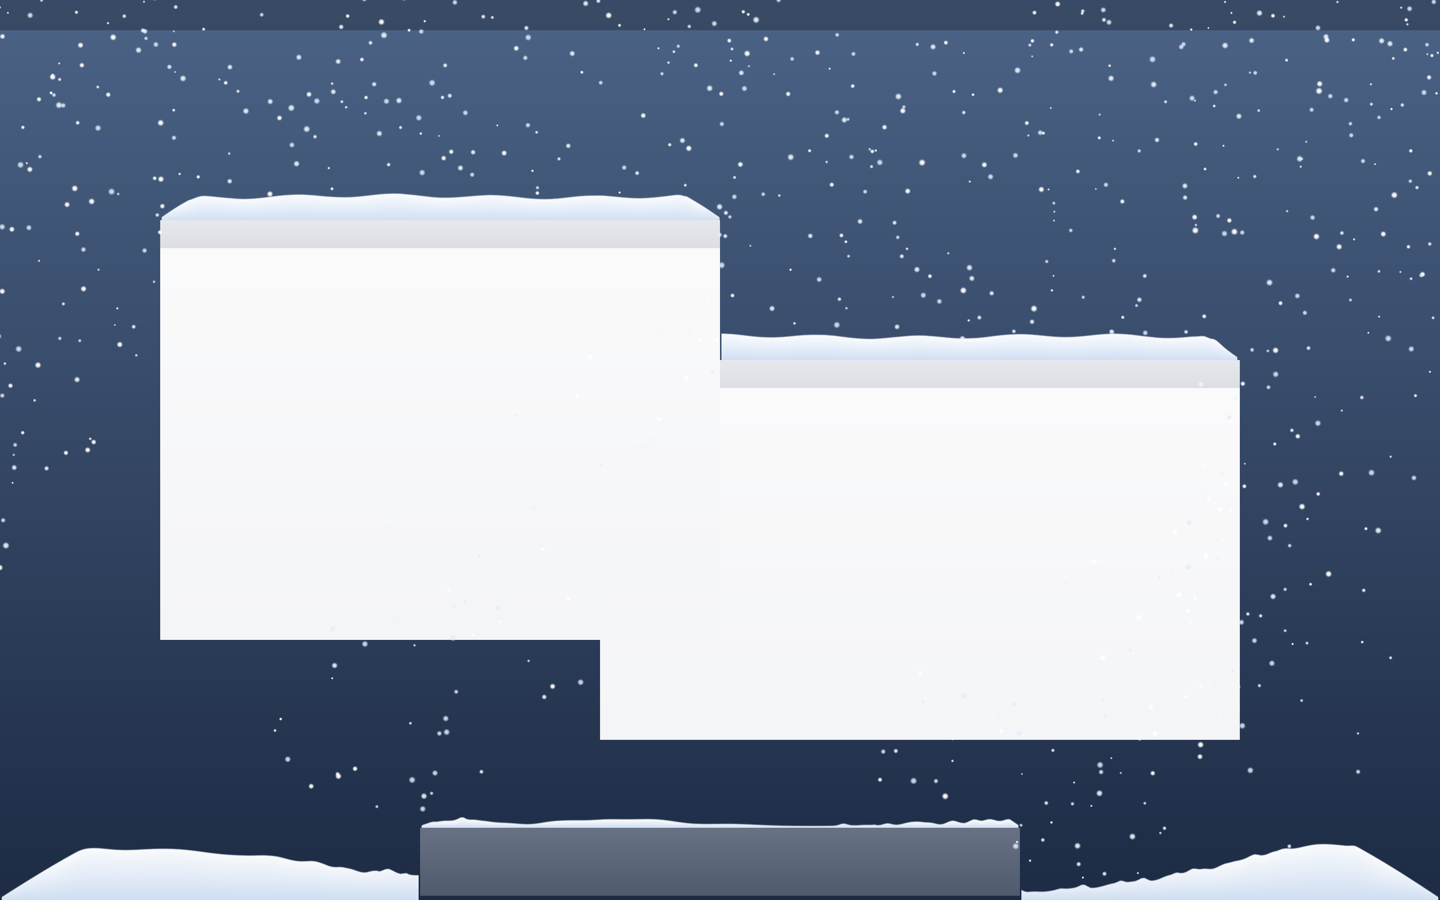
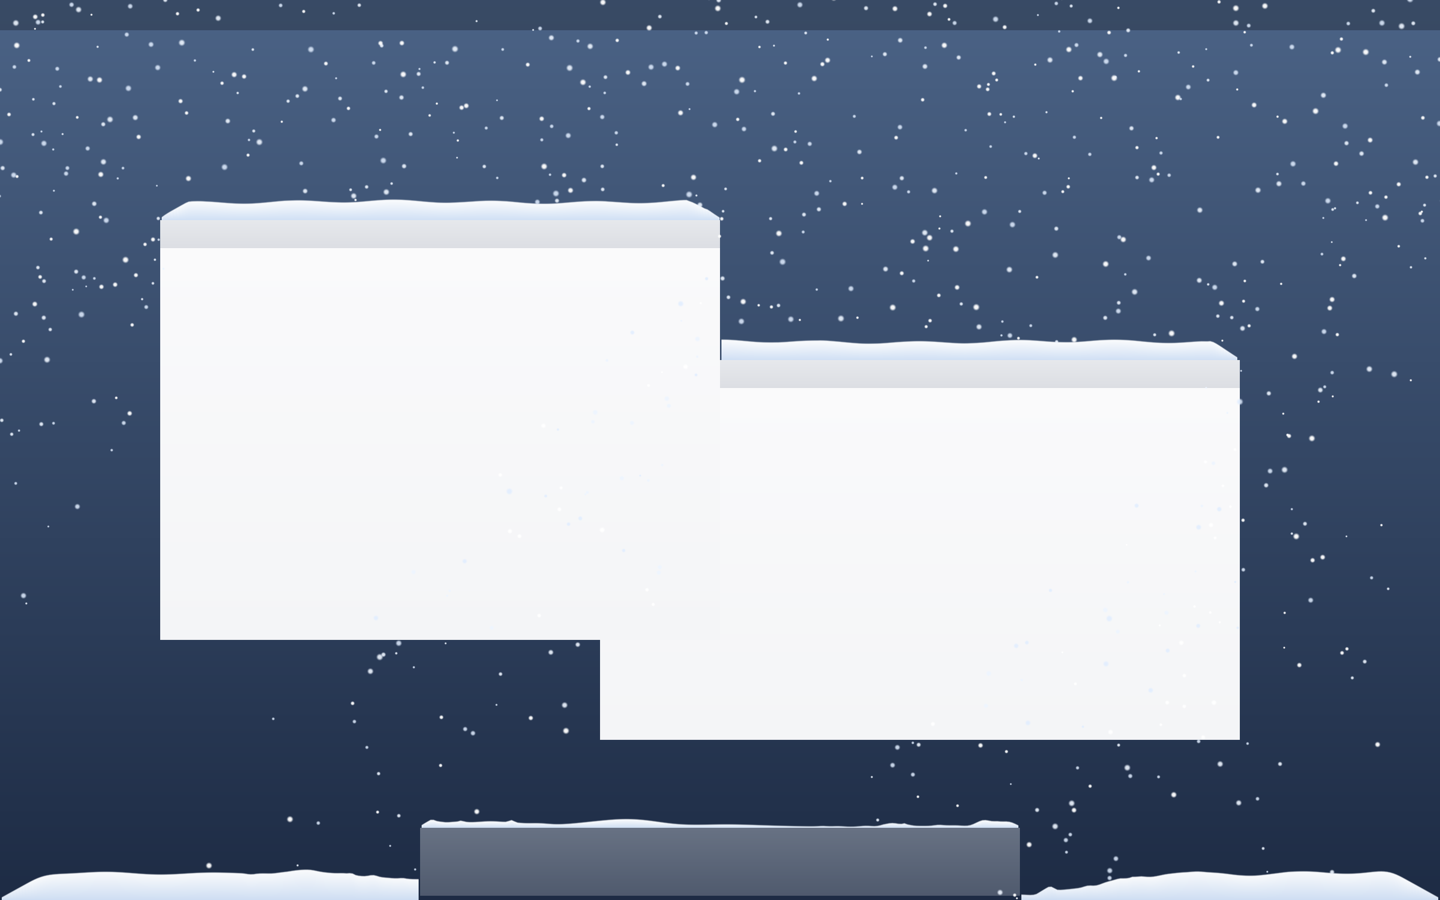
fix: enforce a hard pile height limit and make Melt Away a switch
Pushing snow sideways with the cursor or shifting it with a moving window
could stack material above the maximum height. A hard cap now runs every
frame, and the floor limits are lower (snow 30 pt instead of 64 pt).

Melt Away used to run until all piles were empty, which never happened
while it kept snowing, and it could not be turned off. It is now a
persisted on/off setting that melts twice as fast.

diff --git a/Tests/SeasonsCoreTests/SimulationTests.swift b/Tests/SeasonsCoreTests/SimulationTests.swift
@@ -136,23 +136,59 @@ struct SimulationTests {
         }
     }
 
-    @Test("Clear removes everything, melt removes piles gradually")
-    func clearAndMelt() {
+    @Test("The floor never exceeds its maximum, even after sweeping back and forth", arguments: EffectKind.allCases)
+    func floorCapHolds(effect: EffectKind) {
+        let w = SimulationWorld(width: 800, height: 600, effect: effect, seed: 31)
+        w.updateLedges([floorSpec], time: 0, removal: .spill)
+        let cap = EffectCatalog.parameters(for: effect).pile.maxHeightFloor
+        var t = 0.0
+        // Ten minutes of heavy fall while the cursor keeps sweeping along the floor,
+        // pushing material sideways into walls.
+        for i in 0..<(600 * 30) {
+            let phase = Float(i % 240) / 240
+            let x = 40 + 720 * (phase < 0.5 ? phase * 2 : 2 - phase * 2)
+            w.step(dt: 1.0 / 30, time: t, input: StepInput(mouse: Vec2(x, 6), intensity: 2.2))
+            t += 1.0 / 30
+        }
+        #expect((w.ledges[0].heights.max() ?? 0) <= cap + 0.001)
+    }
+
+    @Test("Clear removes everything immediately")
+    func clear() {
         let w = SimulationWorld(width: 800, height: 600, effect: .snow, seed: 13)
         w.updateLedges([floorSpec], time: 0, removal: .spill)
-        run(w, seconds: 30, intensity: 3)
-        w.startMelting()
-        let before = w.ledges[0].totalMass
-        run(w, seconds: 1, intensity: 0, start: 30)
-        #expect(w.ledges[0].totalMass < before)
-        #expect(w.ledges[0].totalMass > 0)
-        run(w, seconds: 60, intensity: 0, start: 31)
-        #expect(w.ledges[0].totalMass == 0)
-        #expect(!w.isMelting)
-        run(w, seconds: 5, intensity: 3, start: 100)
+        run(w, seconds: 10, intensity: 3)
         w.clearAll()
         #expect(w.particles.isEmpty)
         #expect(w.ledges.allSatisfy { $0.totalMass == 0 })
+    }
+
+    @Test("Melting is a switch: piles vanish while on and build up again when off")
+    func meltSwitch() {
+        let w = SimulationWorld(width: 800, height: 600, effect: .snow, seed: 13)
+        w.updateLedges([floorSpec], time: 0, removal: .spill)
+        run(w, seconds: 30, intensity: 3)
+        #expect(w.ledges[0].totalMass > 0)
+
+        // Switched on while it keeps snowing: the pile melts away within seconds and stays
+        // gone; single flakes still touch down and melt right after.
+        let before = w.ledges[0].totalMass
+        w.isMelting = true
+        run(w, seconds: 15, intensity: 1, start: 30)
+        #expect(w.isMelting) // never switches itself off
+        #expect(w.ledges[0].totalMass < before * 0.03)
+        #expect((w.ledges[0].heights.max() ?? 0) < 6)
+        run(w, seconds: 25, intensity: 1, start: 45)
+        #expect(w.ledges[0].totalMass < before * 0.03)
+
+        // Nothing falls and nothing lies around: the world may idle even with melting on.
+        run(w, seconds: 20, intensity: 0, start: 70)
+        #expect(w.isQuiescent)
+
+        // Switched off: snow stays again.
+        w.isMelting = false
+        run(w, seconds: 20, intensity: 3, start: 90)
+        #expect(w.ledges[0].totalMass > 100)
     }
 
     @Test("Rain produces splash droplets on impact")

diff --git a/Sources/SeasonsCore/SimulationWorld.swift b/Sources/SeasonsCore/SimulationWorld.swift
@@ -37,8 +37,9 @@ public final class SimulationWorld {
     public var flowersEnabled = false {
         didSet { if !flowersEnabled { garden.setBase(nil) } }
     }
-    /// True while "Melt" runs; switches itself off when all piles are gone.
-    public private(set) var isMelting = false
+    /// While true, piles melt away (and new material melts soon after landing).
+    /// A switch: it stays on until the user turns it off.
+    public var isMelting = false
 
     private var rng: SeededRandom
     private let wind: Wind
@@ -90,11 +91,7 @@ public final class SimulationWorld {
         stash.removeAll()
         stashOrder.removeAll()
         garden.resetGrowth()
-        isMelting = false
     }
-
-    /// Lets piles shrink slowly until they are gone.
-    public func startMelting() { isMelting = true }
 
     public func setGardenBase(_ base: GardenBase?) {
         garden.setBase(flowersEnabled ? base : nil)
@@ -173,8 +170,9 @@ public final class SimulationWorld {
 
     /// True when nothing moves and nothing will move without new input.
     public var isQuiescent: Bool {
-        particles.isEmpty && lastSpawnIntensity == 0 && !isMelting && !garden.isAnimating
-            && (params.pile.decayPerSecond == 0 || ledges.allSatisfy { $0.totalMass == 0 })
+        let decays = params.pile.decayPerSecond > 0 || isMelting
+        return particles.isEmpty && lastSpawnIntensity == 0 && !garden.isAnimating
+            && (!decays || ledges.allSatisfy { $0.totalMass == 0 })
     }
 
     /// True if the cursor is close to something it could interact with.
@@ -334,13 +332,13 @@ public final class SimulationWorld {
         let decay = pile.decayPerSecond * dt + (isMelting ? pile.meltPerSecond * dt : 0)
         let particleMass = averageParticleArea * pile.depositFactor
         var budget = EffectCatalog.maxEjectPerFrame
-        var anyMass = false
         for li in ledges.indices {
             if ledges[li].totalMass == 0 && ledges[li].pendingSpillLeft == 0 && ledges[li].pendingSpillRight == 0 {
                 continue
             }
             ledges[li].relax(slope: pile.reposeSlope, iterations: 2)
             ledges[li].smooth(pile.smoothing)
+            ledges[li].enforceCap(pile.maxHeight(for: ledges[li].kind))
             if decay > 0 { ledges[li].decay(by: decay) }
             let id = ledges[li].id
             if ledges[li].kind != .floor {
@@ -359,10 +357,8 @@ public final class SimulationWorld {
                     emit(s, baseVelocity: v, scatter: 50, ignoreLedge: id, budget: &budget)
                 }
             }
-            if ledges[li].totalMass > 0 { anyMass = true }
         }
         // Stop once the piles are gone; when nothing new falls, also wait for the last flakes.
-        if isMelting && !anyMass && (lastSpawnIntensity > 0 || particles.isEmpty) { isMelting = false }
     }
 
     private var averageParticleArea: Float {

diff --git a/Sources/SeasonsCore/EffectCatalog.swift b/Sources/SeasonsCore/EffectCatalog.swift
@@ -27,14 +27,14 @@ public enum EffectCatalog {
         splashCount: 0,
         colors: [RGBA(1, 1, 1, 0.95), RGBA(0.93, 0.96, 1, 0.9), RGBA(0.88, 0.93, 1, 0.85)],
         pile: PileParameters(
-            maxHeightFloor: 64,
-            maxHeightDock: 34,
-            maxHeightWindow: 26,
+            maxHeightFloor: 30,
+            maxHeightDock: 24,
+            maxHeightWindow: 20,
             reposeSlope: 0.55,
             smoothing: 0.10,
             depositFactor: 0.55,
             decayPerSecond: 0,
-            meltPerSecond: 2.2,
+            meltPerSecond: 4.5,
             style: .blanket,
             colorTop: RGBA(0.99, 0.995, 1, 0.98),
             colorBottom: RGBA(0.84, 0.90, 0.98, 0.96),
@@ -62,14 +62,14 @@ public enum EffectCatalog {
             RGBA(hex: 0xA0522D),
         ],
         pile: PileParameters(
-            maxHeightFloor: 36,
+            maxHeightFloor: 24,
             maxHeightDock: 22,
             maxHeightWindow: 18,
             reposeSlope: 0.9,
             smoothing: 0.0,
             depositFactor: 0.22,
             decayPerSecond: 0,
-            meltPerSecond: 1.6,
+            meltPerSecond: 3.5,
             style: .scatter,
             colorTop: RGBA(hex: 0x9C4A1A, alpha: 0.0),
             colorBottom: RGBA(hex: 0x6B3410, alpha: 0.75),
@@ -100,7 +100,7 @@ public enum EffectCatalog {
             smoothing: 0.3,
             depositFactor: 0.35,
             decayPerSecond: 0.012,
-            meltPerSecond: 0.6,
+            meltPerSecond: 1.2,
             style: .water,
             colorTop: RGBA(0.86, 0.93, 1, 0.55),
             colorBottom: RGBA(0.55, 0.70, 0.92, 0.30),
@@ -127,14 +127,14 @@ public enum EffectCatalog {
             RGBA(hex: 0xF7A1C4), RGBA(hex: 0xFFF0F5),
         ],
         pile: PileParameters(
-            maxHeightFloor: 26,
+            maxHeightFloor: 18,
             maxHeightDock: 16,
             maxHeightWindow: 13,
             reposeSlope: 0.7,
             smoothing: 0.03,
             depositFactor: 0.25,
             decayPerSecond: 0,
-            meltPerSecond: 1.2,
+            meltPerSecond: 2.5,
             style: .scatter,
             colorTop: RGBA(hex: 0xFFD6E5, alpha: 0.0),
             colorBottom: RGBA(hex: 0xF5B8CF, alpha: 0.7),

diff --git a/Tests/SeasonsAppTests/MenuTests.swift b/Tests/SeasonsAppTests/MenuTests.swift
@@ -67,6 +67,7 @@ struct MenuTests {
         s.paused = true
         s.accumulate = false
         s.hideInScreenshots = false
+        s.melting = true
         store.save(s)
         #expect(store.load() == s)
     }
@@ -97,6 +98,12 @@ struct MenuTests {
         click("Hide in Screenshots and Screen Sharing", controller)
         #expect(!model.settings.hideInScreenshots && !reloaded().hideInScreenshots)
 
+        click("Melt Away", controller)
+        #expect(model.settings.melting && reloaded().melting)
+        #expect(item("Melt Away", in: controller.menu)?.state == .on)
+        click("Melt Away", controller)
+        #expect(!model.settings.melting && !reloaded().melting)
+
         click("Choose Automatically by Season", controller)
         #expect(model.settings.automatic && reloaded().automatic)
         // The summer-rain option only appears in automatic mode.
@@ -124,14 +131,13 @@ struct MenuTests {
         #expect(reloaded().intensity == value)
     }
 
-    @Test("Clear and Melt send commands to the overlays")
+    @Test("Clear Now sends a one-off command to the overlays")
     func commands() {
         let (model, controller) = makeMenu()
         var received: [String] = []
         model.onCommand { received.append("\($0)") }
         click("Clear Now", controller)
-        click("Melt Away", controller)
-        #expect(received == ["clear", "melt"])
+        #expect(received == ["clear"])
     }
 
     @Test("Automatic mode derives the scene from the season")

diff --git a/Sources/Seasons/Settings.swift b/Sources/Seasons/Settings.swift
@@ -11,6 +11,8 @@ struct Settings: Equatable {
     var paused = false
     var accumulate = true
     var hideInScreenshots = true
+    /// "Melt Away" switch: while on, nothing stays lying around.
+    var melting = false
 }
 
 /// Persists `Settings` in UserDefaults. Launch-at-login is not stored here:
@@ -26,6 +28,7 @@ struct SettingsStore {
         static let paused = "paused"
         static let accumulate = "accumulate"
         static let hideInScreenshots = "hideInScreenshots"
+        static let melting = "melting"
     }
 
     init(defaults: UserDefaults = .standard) {
@@ -42,6 +45,7 @@ struct SettingsStore {
         s.paused = bool(Key.paused, default: s.paused)
         s.accumulate = bool(Key.accumulate, default: s.accumulate)
         s.hideInScreenshots = bool(Key.hideInScreenshots, default: s.hideInScreenshots)
+        s.melting = bool(Key.melting, default: s.melting)
         return s
     }
 
@@ -54,6 +58,7 @@ struct SettingsStore {
         defaults.set(s.paused, forKey: Key.paused)
         defaults.set(s.accumulate, forKey: Key.accumulate)
         defaults.set(s.hideInScreenshots, forKey: Key.hideInScreenshots)
+        defaults.set(s.melting, forKey: Key.melting)
     }
 
     private func bool(_ key: String, default value: Bool) -> Bool {

diff --git a/Sources/Seasons/StatusMenuController.swift b/Sources/Seasons/StatusMenuController.swift
@@ -74,7 +74,7 @@ final class StatusMenuController: NSObject, NSMenuDelegate {
         menu.addItem(action(s.paused ? L("Resume") : L("Pause"), #selector(togglePause), key: "p"))
         menu.addItem(amountMenu(current: s.intensity))
         menu.addItem(action(L("Clear Now"), #selector(clearNow), key: "k"))
-        menu.addItem(action(L("Melt Away"), #selector(meltAway)))
+        menu.addItem(action(L("Melt Away"), #selector(toggleMelt), checked: s.melting))
 
         menu.addItem(.separator())
         menu.addItem(action(L("Pile Up on Windows and Dock"), #selector(toggleAccumulate), checked: s.accumulate))
@@ -161,7 +161,7 @@ final class StatusMenuController: NSObject, NSMenuDelegate {
     @objc private func toggleAccumulate() { model.update { $0.accumulate.toggle() } }
     @objc private func toggleHide() { model.update { $0.hideInScreenshots.toggle() } }
     @objc private func clearNow() { model.send(.clear) }
-    @objc private func meltAway() { model.send(.melt) }
+    @objc private func toggleMelt() { model.update { $0.melting.toggle() } }
 
     @objc private func selectAmount(_ sender: NSMenuItem) {
         guard let raw = sender.representedObject as? String, let value = Intensity(rawValue: raw) else { return }

diff --git a/Sources/Seasons/OverlayController.swift b/Sources/Seasons/OverlayController.swift
@@ -93,6 +93,7 @@ final class OverlayController: NSObject, MTKViewDelegate {
         hasEffect = scene.effect != nil
         world.flowersEnabled = scene.flowers
         world.accumulateOnWindowsAndDock = settings.accumulate
+        world.isMelting = settings.melting
         intensity = settings.intensity
         userPaused = settings.paused
         window.sharingType = settings.hideInScreenshots ? .none : .readOnly
@@ -114,7 +115,6 @@ final class OverlayController: NSObject, MTKViewDelegate {
     func perform(_ command: OverlayCommand) {
         switch command {
         case .clear: world.clearAll()
-        case .melt: world.startMelting()
         }
         wake()
         if userPaused { view.draw() }

diff --git a/Sources/SeasonsCore/Ledge.swift b/Sources/SeasonsCore/Ledge.swift
@@ -260,6 +260,14 @@ public struct Ledge: Sendable {
         return spills
     }
 
+    /// Hard limit: cuts every cell down to `maxHeight` (excess is compacted away).
+    /// Needed because pushing material sideways or shifting it can stack above the cap.
+    mutating func enforceCap(_ maxHeight: Float) {
+        for i in heights.indices where heights[i] > maxHeight {
+            heights[i] = maxHeight
+        }
+    }
+
     mutating func decay(by amount: Float) {
         guard amount > 0 else { return }
         for i in heights.indices where heights[i] > 0 {

diff --git a/Sources/Seasons/AppModel.swift b/Sources/Seasons/AppModel.swift
@@ -4,7 +4,6 @@ import SeasonsCore
 /// Commands the overlays execute once.
 enum OverlayCommand {
     case clear
-    case melt
 }
 
 /// Central app state: settings plus the derived scene (what is actually shown).

diff --git a/docs/ARCHITECTURE.md b/docs/ARCHITECTURE.md
@@ -44,7 +44,7 @@ CADisplayLink tick ─► SimulationWorld.step(dt, mouse, intensity)
 
 - **Coordinates:** screen-local points, origin bottom-left, y up. One `SimulationWorld` per screen.
 - **Particles** relax toward a terminal velocity (`drag`) plus wind and sway. This first-order model behaves like gravity with air resistance: thrown particles rise, slow down and fall again. It is stable for any frame time up to 50 ms.
-- **Ledges** are 1D height fields with 3 pt cells along the screen bottom, the Dock top and visible window top edges. Landing particles add their area with a triangular kernel, so a pile is never a single stack. Each frame applies angle-of-repose relaxation (per-effect slope) and diffusion smoothing. A per-cell cap (maximum height × a smooth 0.78–1.0 wave) keeps piles from overflowing and gives full piles an uneven top. Open ends shed mass that falls off as particles.
+- **Ledges** are 1D height fields with 3 pt cells along the screen bottom, the Dock top and visible window top edges. Landing particles add their area with a triangular kernel, so a pile is never a single stack. Each frame applies angle-of-repose relaxation (per-effect slope) and diffusion smoothing. A per-cell cap (maximum height × a smooth 0.78–1.0 wave) gives full piles an uneven top; after every frame a hard cap at the maximum height catches material that was pushed sideways by the cursor or shifted by a moving window, so a pile can never exceed its limit. Open ends shed mass that falls off as particles.
 - **Cursor:** inside a 52 pt radius, airborne particles get pushed outward plus 55% of the cursor velocity. On piles, the cursor carves a circle: 40% of the removed mass is pushed to the side, 60% is thrown up as particles.
 - **Moving windows:** ledges are matched by window ID. A move shifts the pile against the motion (inertia, slides off the trailing end) and sheds a fraction that grows with speed, faster when the window is pulled down. Removed windows drop their pile. If a window disappears within 1.5 s after a Space switch, its pile is stashed and restored when the window returns.
 - **Occlusion:** an edge is visible only where no window in front (or the Dock or menu bar) covers it. Hidden cells keep their mass but neither render nor collect.
@@ -58,7 +58,7 @@ CADisplayLink tick ─► SimulationWorld.step(dt, mouse, intensity)
 | Window level | `.statusBar` (25) | Above the Dock (20) and normal windows, so snow lies visibly on the Dock. Below the screen saver. |
 | Effect switch | clears piles | A snow pile cannot sensibly turn into leaves. |
 | "Pile up on windows and Dock" off | screen bottom still collects | The bottom edge is the minimum the effect needs to look right. |
-| Melt | one-shot; ends when piles and air are empty | Matches "accumulation disappears slowly". |
+| Melt | a persistent switch; while on, piles melt at 1.2–4.5 pt/s and new material melts right after landing | A one-shot melt never ended during snowfall and could not be stopped. |
 | Summer in automatic mode | nothing, or rain if "Rain in Summer" is on | Spec: "Sommer aus/optional Regen". |
 | Hemisphere | northern | Target user; the core supports the southern hemisphere already. |
 | Dock length | estimated from Dock prefs: (tiles × (tile size + 4) + separators × 14 + 20) pt | No public API exposes it; the Dock's own windows cover the whole screen. |
@@ -96,5 +96,5 @@ Memory: particle counts are capped per effect (260–2,600 per screen), and buff
 
 ## Testing
 
-- `swift test` runs both test targets: 34 core tests (43 cases) and 8 menu tests (15 cases).
+- `swift test` runs both test targets: 36 core tests (48 cases) and 8 menu tests (15 cases).
 - `Seasons --render-preview <folder>` renders each effect on a synthetic desktop with the real Metal pipeline (also with a cursor sweep). It was used to check the look without Screen Recording permission.

diff --git a/README.md b/README.md
@@ -17,7 +17,7 @@ Snow, autumn leaves, rain and cherry blossoms falling over your Mac desktop. The
 ## Features
 
 - **Five effects:** snow (winter), autumn leaves, rain, cherry blossoms (spring) and flowers along the Dock. The flowers can be combined with any effect.
-- **Things pile up** on the screen bottom, on top of the Dock and on the visible top edges of windows. Piles spread out naturally and have a maximum height.
+- **Things pile up** on the screen bottom, on top of the Dock and on the visible top edges of windows. Piles spread out naturally and never grow beyond a maximum height (snow: 30 pt on the screen bottom, 24 pt on the Dock, 20 pt on windows).
 - **Sweep with the pointer:** the pointer pushes falling particles away, digs into piles and throws the material up so it falls again. No clicks are intercepted.
 - **Windows matter:** move a window quickly and its snow slides off. Close or minimize it and the pile falls down. Covered parts of an edge collect nothing. Piles survive switching Spaces.
 - **Flowers** grow slowly, sway in the wind, bend away from the pointer and can be swept off with a fast move. They grow back.
@@ -72,7 +72,7 @@ Click the menu bar icon:
 | Pause / Resume (⌘P) | Freeze everything |
 | Amount | Off, Light, Medium, Heavy or Variable (changes slowly over time) |
 | Clear Now (⌘K) | Remove everything immediately |
-| Melt Away | Let the piles disappear slowly |
+| Melt Away | Switch: while checked, piles melt within seconds and nothing stays; uncheck to let things pile up again |
 | Pile Up on Windows and Dock | Off: only the screen bottom collects |
 | Hide in Screenshots and Screen Sharing | Keeps the overlay out of captures (on by default, see limitations) |
 | Launch at Login | Start Seasons when you log in |

diff --git a/CHANGELOG.md b/CHANGELOG.md
@@ -13,7 +13,8 @@ All notable changes to this project are documented here. The format follows
 - Pointer interaction: pushes particles, carves piles and throws material up; bends and sweeps away flowers.
 - Snow slides off moving windows and falls when a window closes or minimizes; piles survive Space switches.
 - Automatic effect by season, with optional rain in summer.
-- Amount levels: Off, Light, Medium, Heavy, Variable. Pause, Clear Now, Melt Away.
+- Amount levels: Off, Light, Medium, Heavy, Variable. Pause, Clear Now, and a Melt Away switch.
+- Hard maximum pile height per edge (snow: 30 pt on the screen bottom, 24 pt on the Dock, 20 pt on windows).
 - Options: pile up on windows and Dock, hide in screenshots and screen sharing, launch at login.
 - English and German localization.
 - Power saving: pauses on lock, sleep, screen saver and occlusion, and when idle; 30 fps on battery and 20 fps in Low Power Mode.
